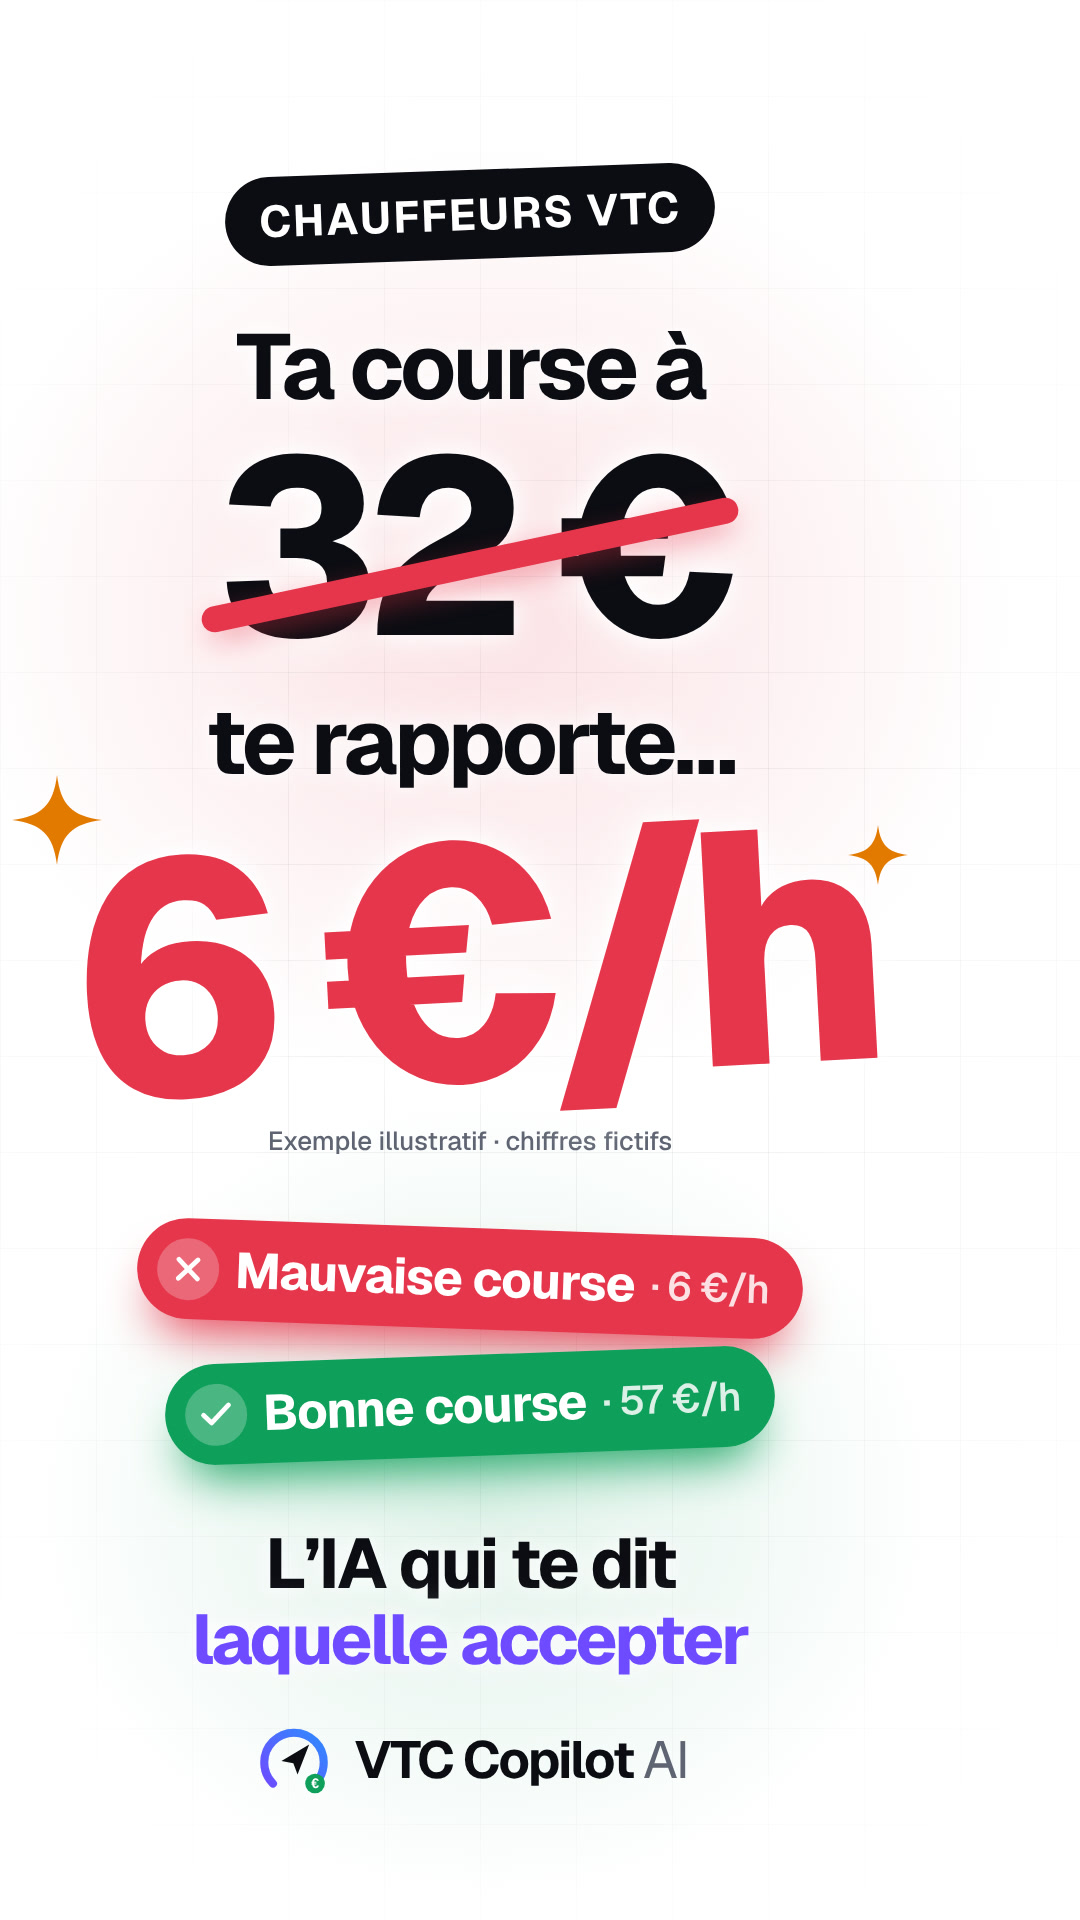
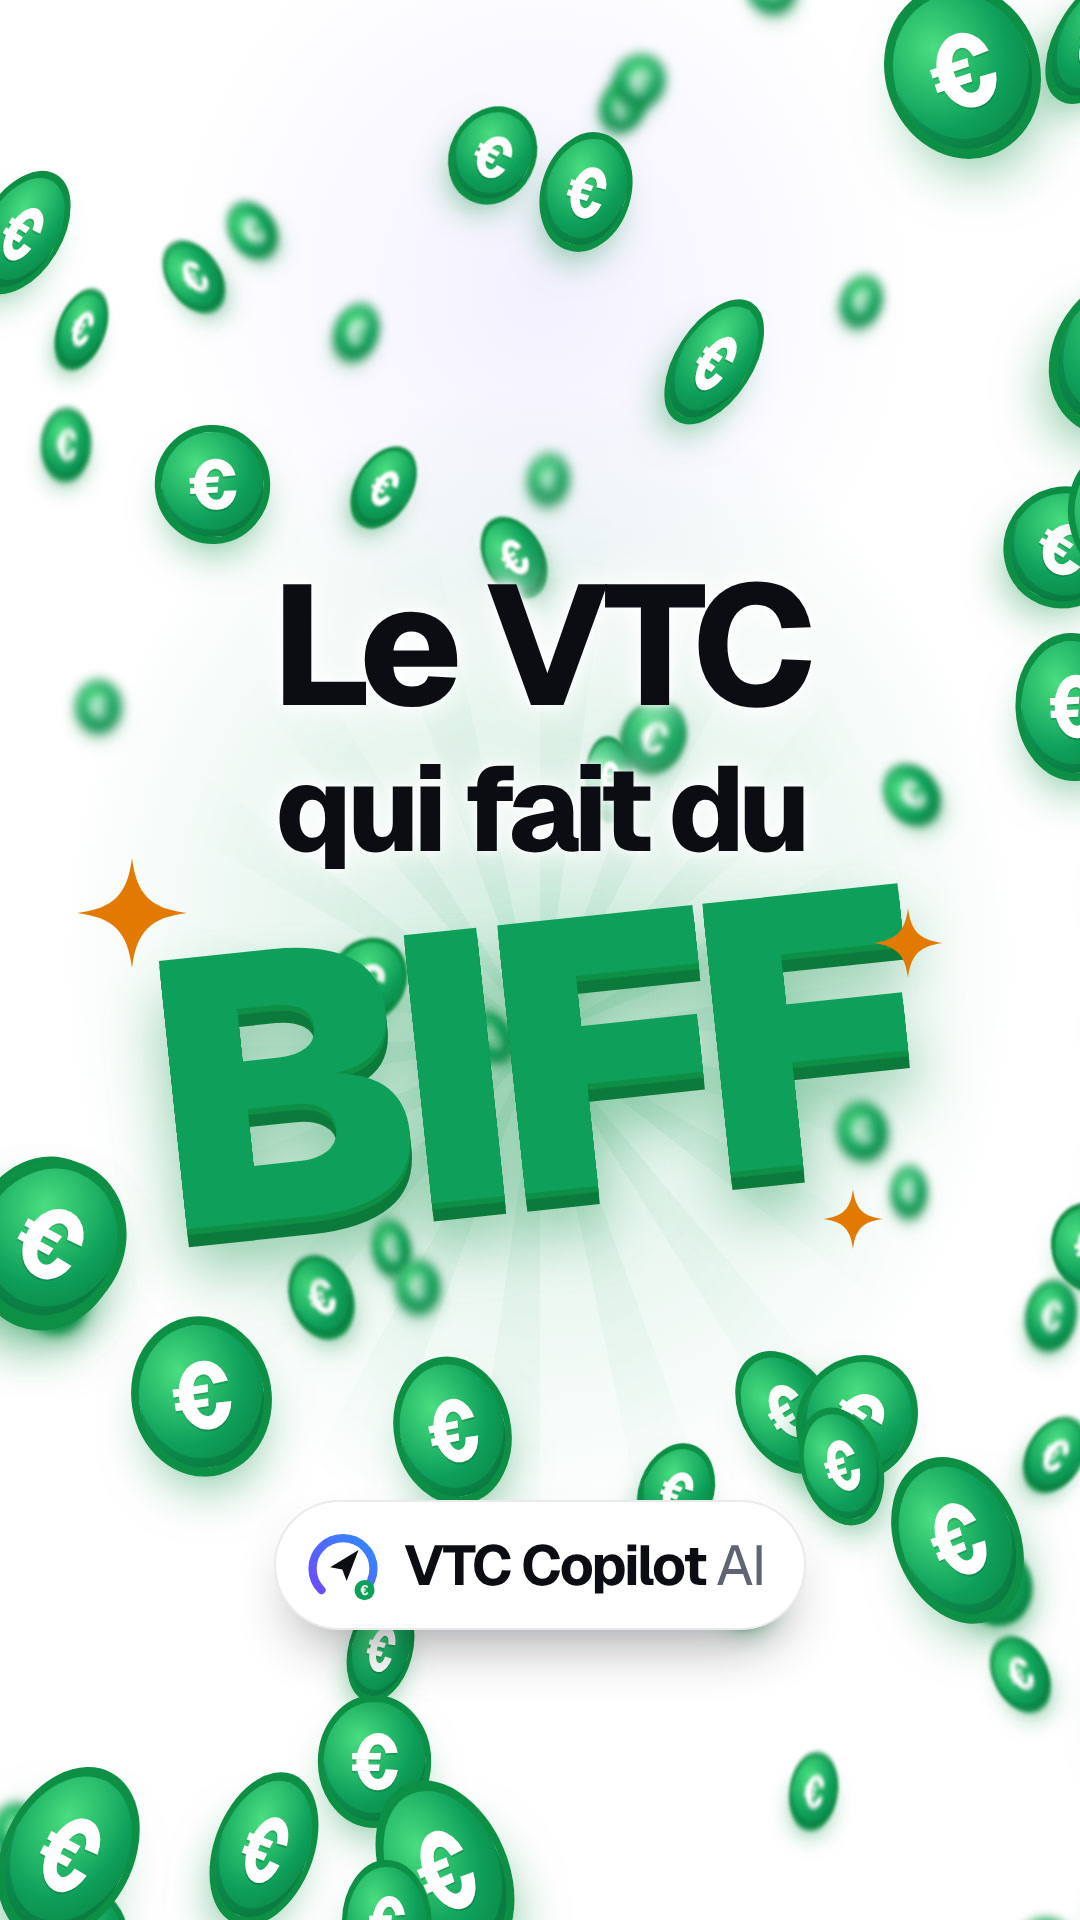
feat(vtc): vignette TikTok « Le VTC qui fait du BIFF » avec pluie de pièces
Claude-Session: https://claude.ai/code/session_01Qnpz3VHv1jsuTTr5TF7Ewp

diff --git a/vtc-copilot-ai/video/src/Thumbnail.tsx b/vtc-copilot-ai/video/src/Thumbnail.tsx
@@ -1,67 +1,105 @@
-// Vignette TikTok 1080×1920 : accroche du film (exemple fictif « 32 € → 6 €/h ») et promesse du produit, dans la zone sûre de TikTok.
+// Vignette TikTok 1080×1920 : « Le VTC qui fait du BIFF », pluie de pièces €.
+// Le texte reste dans le cadre central 3:4 que TikTok garde dans la grille du profil.
 
+import type { CSSProperties } from "react";
 import { AbsoluteFill } from "remotion";
-import { Check, X } from "lucide-react";
-import { C, FONT, VERDICT } from "../../shared/brand";
+import { C, FONT } from "../../shared/brand";
 import { LogoMark } from "../../shared/Logo";
 import { Sparkle } from "./Film";
 
-const glow = "0 0 50px #fff, 0 0 20px #fff";
+const glow = "0 0 60px #fff, 0 0 24px #fff, 0 0 8px #fff";
 
-function Verdict({ ok, label, value, rotate }: { ok: boolean; label: string; value: string; rotate: number }) {
-  const color = ok ? VERDICT.green.color : VERDICT.red.color;
+/** Générateur pseudo-aléatoire déterministe : la vignette est identique à chaque rendu. */
+function rand(seed: number) {
+  const x = Math.sin(seed * 9301 + 49297) * 233280;
+  return x - Math.floor(x);
+}
+
+// pièces réparties autour du texte, plus grosses au premier plan, floues à l'arrière-plan
+const COINS = Array.from({ length: 90 }, (_, i) => {
+  const depth = rand(i + 1);
+  return {
+    x: rand(i + 101) * 1180 - 50,
+    y: rand(i + 201) * 2020 - 50,
+    s: 50 + depth * 150,
+    r: rand(i + 301) * 70 - 35,
+    blur: depth < 0.35 ? (0.35 - depth) * 18 : 0,
+    tilt: 0.55 + rand(i + 401) * 0.45,
+  };
+}).filter((c) => (c.blur > 0 && c.s < 90) || c.x + c.s < 150 || c.x > 930 || c.y + c.s < 560 || c.y > 1290); // dégage le texte
+
+function Coin({ x, y, s, r, blur, tilt }: { x: number; y: number; s: number; r: number; blur: number; tilt: number }) {
   return (
-    <div style={{ display: "flex", alignItems: "center", gap: 16, padding: "18px 34px 18px 20px", borderRadius: 99, background: color, color: "#fff", fontSize: 50, fontWeight: 720, letterSpacing: "-0.02em", whiteSpace: "nowrap", boxShadow: `0 30px 50px -20px ${color}`, rotate: `${rotate}deg` }}>
-      <span style={{ width: 62, height: 62, borderRadius: 62, display: "grid", placeItems: "center", background: "rgba(255,255,255,0.25)" }}>{ok ? <Check size={38} strokeWidth={3} /> : <X size={38} strokeWidth={3} />}</span>
-      {label}
-      <span style={{ fontWeight: 560, opacity: 0.85, fontSize: 40 }}>· {value}</span>
+    <div
+      style={{
+        position: "absolute",
+        left: x,
+        top: y,
+        width: s,
+        height: s,
+        borderRadius: s,
+        background: `radial-gradient(circle at 35% 30%, #4ADE80 0%, ${C.green} 55%, #0B7A3B 100%)`,
+        border: `${Math.max(3, s * 0.06)}px solid #0E8F45`,
+        color: "#fff",
+        display: "grid",
+        placeItems: "center",
+        fontSize: s * 0.58,
+        fontWeight: 820,
+        rotate: `${r}deg`,
+        scale: `${tilt} 1`,
+        filter: blur ? `blur(${blur}px)` : undefined,
+        boxShadow: `0 ${s * 0.18}px ${s * 0.35}px -${s * 0.12}px rgba(14,143,69,0.55), inset 0 -${s * 0.06}px 0 rgba(0,0,0,0.12)`,
+        textShadow: "0 2px 0 rgba(0,0,0,0.15)",
+      }}
+    >
+      €
     </div>
   );
 }
 
+const line: CSSProperties = { fontWeight: 760, letterSpacing: "-0.05em", lineHeight: 1, textShadow: glow, whiteSpace: "nowrap" };
+
 export const Thumbnail = () => (
-  <AbsoluteFill style={{ background: C.night, fontFamily: FONT, color: C.text }}>
-    <AbsoluteFill style={{ background: `radial-gradient(70% 35% at 45% 32%, ${C.red}26 0%, transparent 70%), radial-gradient(60% 30% at 45% 78%, ${C.green}22 0%, transparent 70%)` }} />
-    <AbsoluteFill
-      style={{
-        backgroundImage: "linear-gradient(rgba(15,18,30,0.05) 1px, transparent 1px), linear-gradient(90deg, rgba(15,18,30,0.05) 1px, transparent 1px)",
-        backgroundSize: "96px 96px",
-        maskImage: "radial-gradient(80% 70% at 50% 50%, black 30%, transparent 85%)",
-      }}
-    />
+  <AbsoluteFill style={{ background: C.night, fontFamily: FONT, color: C.text, overflow: "hidden" }}>
+    <AbsoluteFill style={{ background: `radial-gradient(60% 40% at 50% 50%, ${C.green}30 0%, transparent 75%), radial-gradient(50% 30% at 50% 15%, ${C.violet}14 0%, transparent 70%)` }} />
+    {COINS.filter((c) => c.blur > 0).map((c, i) => (
+      <Coin key={`b${i}`} {...c} />
+    ))}
 
-    <div style={{ position: "absolute", left: 0, width: 940, top: 170, display: "flex", flexDirection: "column", alignItems: "center" }}>
-      <div style={{ padding: "16px 34px", borderRadius: 99, background: C.ink, color: "#fff", fontSize: 44, fontWeight: 700, letterSpacing: "0.04em", rotate: "-2deg" }}>CHAUFFEURS VTC</div>
+    {/* rayons qui partent du BIFF */}
+    <AbsoluteFill style={{ background: `repeating-conic-gradient(from 0deg at 50% 54%, ${C.green}12 0deg 8deg, transparent 8deg 20deg)`, maskImage: "radial-gradient(45% 35% at 50% 54%, black 20%, transparent 80%)" }} />
 
-      <div style={{ marginTop: 60, fontSize: 92, fontWeight: 700, letterSpacing: "-0.04em", lineHeight: 1.05, textAlign: "center", textShadow: glow }}>
-        Ta course à
+    <div style={{ position: "absolute", left: 0, right: 0, top: 560, display: "flex", flexDirection: "column", alignItems: "center" }}>
+      <div style={{ ...line, fontSize: 170 }}>Le VTC</div>
+      <div style={{ ...line, fontSize: 120, marginTop: 18 }}>qui fait du</div>
+      <div style={{ position: "relative", marginTop: 10, marginLeft: -30 }}>
+        <div
+          style={{
+            fontSize: 380,
+            fontWeight: 880,
+            letterSpacing: "-0.06em",
+            lineHeight: 0.95,
+            color: C.green,
+            rotate: "-6deg",
+            textShadow: "0 6px 0 #0E8F45, 0 12px 0 #0B7A3B, 0 18px 0 #0B7A3B, 0 40px 60px rgba(14,143,69,0.45)",
+          }}
+        >
+          BIFF
+        </div>
+        <Sparkle size={110} color={C.orange} style={{ left: -70, top: -20 }} />
+        <Sparkle size={70} color={C.orange} style={{ right: -40, top: 30 }} />
+        <Sparkle size={60} color={C.orange} style={{ right: 20, bottom: -10 }} />
       </div>
-      <div style={{ position: "relative", marginTop: 6 }}>
-        <div style={{ fontSize: 250, fontWeight: 760, letterSpacing: "-0.07em", lineHeight: 1, textShadow: glow }}>32 €</div>
-        {/* barré d'un trait rouge */}
-        <div style={{ position: "absolute", left: -20, right: -20, top: "52%", height: 26, borderRadius: 26, background: C.red, rotate: "-12deg", boxShadow: `0 10px 30px -8px ${C.red}` }} />
-      </div>
-      <div style={{ marginTop: 10, fontSize: 92, fontWeight: 700, letterSpacing: "-0.04em", textShadow: glow }}>te rapporte…</div>
-      <div style={{ position: "relative", marginTop: 4 }}>
-        <div style={{ fontSize: 330, fontWeight: 800, letterSpacing: "-0.07em", lineHeight: 0.95, color: C.red, textShadow: glow, rotate: "-3deg", whiteSpace: "nowrap" }}>6 €/h</div>
-        <Sparkle size={90} color={C.orange} style={{ left: -60, top: -30 }} />
-        <Sparkle size={60} color={C.orange} style={{ right: -40, top: 20 }} />
-      </div>
-      <div style={{ marginTop: 6, fontSize: 26, fontWeight: 500, color: C.muted }}>Exemple illustratif · chiffres fictifs</div>
+    </div>
 
-      <div style={{ marginTop: 70, display: "flex", flexDirection: "column", alignItems: "center", gap: 26 }}>
-        <Verdict ok={false} label="Mauvaise course" value="6 €/h" rotate={2} />
-        <Verdict ok label="Bonne course" value="57 €/h" rotate={-2} />
-      </div>
+    {COINS.filter((c) => !c.blur).map((c, i) => (
+      <Coin key={`f${i}`} {...c} />
+    ))}
 
-      <div style={{ marginTop: 70, fontSize: 70, fontWeight: 720, letterSpacing: "-0.04em", lineHeight: 1.08, textAlign: "center", textShadow: glow }}>
-        L’IA qui te dit
-        <br />
-        <span style={{ color: C.violet }}>laquelle accepter</span>
-      </div>
-      <div style={{ marginTop: 40, display: "flex", alignItems: "center", gap: 18 }}>
-        <LogoMark size={84} id="thumb-logo" />
-        <span style={{ fontSize: 52, fontWeight: 680, letterSpacing: "-0.04em" }}>
+    <div style={{ position: "absolute", left: 0, right: 0, top: 1500, display: "flex", justifyContent: "center" }}>
+      <div style={{ display: "flex", alignItems: "center", gap: 18, padding: "20px 40px 20px 24px", borderRadius: 99, background: "#fff", boxShadow: "0 30px 60px -24px rgba(11,13,18,0.45)", border: `2px solid ${C.line}` }}>
+        <LogoMark size={86} id="thumb-logo" />
+        <span style={{ fontSize: 56, fontWeight: 700, letterSpacing: "-0.04em" }}>
           VTC Copilot <span style={{ color: C.muted, fontWeight: 420 }}>AI</span>
         </span>
       </div>
